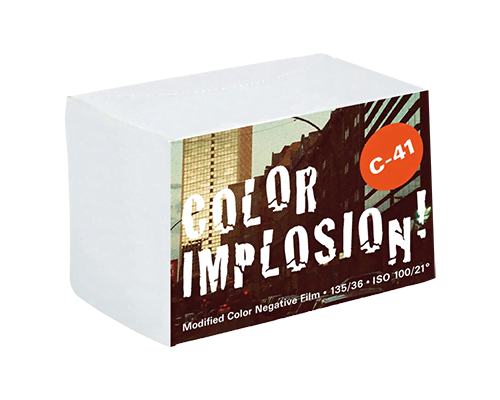
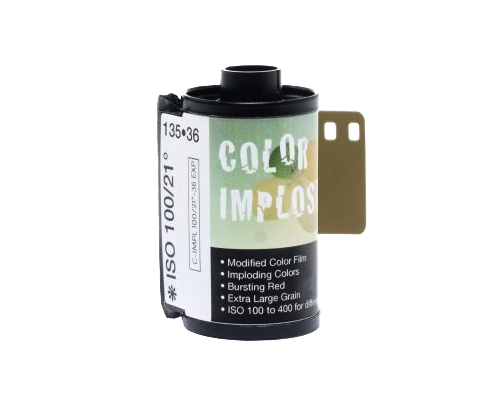
Removed Adox Color Implosion

diff --git a/js/discontinued-films.js b/js/discontinued-films.js
@@ -15,5 +15,22 @@ var discontinuedfilms = [
     "lomography": "https://www.lomography.com/films/871939313-fujifilm-superia-venus-800/photos",
     "flickr": "https://www.flickr.com/search/?media=photos&text=%22Fuji%20Superia%20Venus%20800%22",
     "image": "images/fujifilm-superia-venus-800-135.png"
-  }
+  },
+  {
+    "company": "Adox",
+    "name": "Adox Color Implosion",
+    "iso": "100",
+    "format": "135",
+    "color": "color",
+    "type": "negative",
+    "emulsion": "",
+    "price": 2,
+    "popularity": 5065,
+    "description": "film with a partially collapsed color coupling system for unpredictable results. effective speed is ISO 100",
+    "launched": 2012,
+    "datasheet": "",
+    "lomography": "https://www.lomography.com/films/871951418-adox-color-implosion/photos",
+    "flickr": "https://www.flickr.com/search/?media=photos&text=%22Adox%20Color%20Implosion%22",
+    "image": "adox-color-implosion-135.png"
+  },
 ]

diff --git a/js/current-films.js b/js/current-films.js
@@ -69,23 +69,6 @@ var currentfilms = [
   },
   {
     "company": "Adox",
-    "name": "Adox Color Implosion",
-    "iso": "100",
-    "format": "135",
-    "color": "color",
-    "type": "negative",
-    "emulsion": "",
-    "price": 2,
-    "popularity": 5065,
-    "description": "film with a partially collapsed color coupling system for unpredictable results. effective speed is ISO 100",
-    "launched": 2012,
-    "datasheet": "",
-    "lomography": "https://www.lomography.com/films/871951418-adox-color-implosion/photos",
-    "flickr": "https://www.flickr.com/search/?media=photos&text=%22Adox%20Color%20Implosion%22",
-    "image": "adox-color-implosion-135.png"
-  },
-  {
-    "company": "Adox",
     "name": "Adox HR-50",
     "iso": "50",
     "format": "135",

diff --git a/js/guide.js b/js/guide.js
@@ -616,10 +616,6 @@ var guide = [
     "text": "Definitely try those films while they are made!",
     "films": [
       {
-        "name": "Adox Color Implosion",
-        "format": "135"
-      },
-      {
         "name": "Cinestillfilm Cinestill 50D",
         "format": "135"
       },
